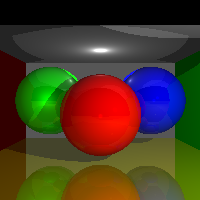
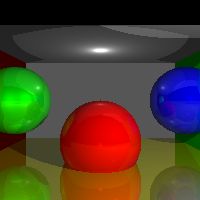
Simplification du gif

diff --git a/animation.py b/animation.py
@@ -1,4 +1,3 @@
-import math
 import os
 from Scene import Scene
 from Camera import Camera
@@ -6,7 +5,6 @@ from Canvas import Canvas
 from Viewport import Viewport
 from PIL import Image
 from fonctions_utils import load_scene_from_file, TraceRay, CanvasToViewport
-from Sphere import Sphere
 
 # Rend une frame et retourne l'image PIL
 def render_frame(scene, camera, viewport, Cw, Ch):
@@ -27,43 +25,40 @@ def render_frame(scene, camera, viewport, Cw, Ch):
     return img
 
 if __name__ == '__main__':
-    # Configuration
     viewport = Viewport(1, 1, 1)
     camera = Camera(0, 0.5, -2)
     Cw, Ch = 200, 200
-    num_frames = 36
+    num_frames = 20
     os.makedirs('frames', exist_ok=True)
-
-    # Paramètres d'animation
-    center_y_base, center_amplitude = -1, 1.5
-    left_x_base, right_x_base, side_amplitude = -3, 3, 2
 
     images = []
     print(f"Rendu de {num_frames} frames...")
 
-    # Génération des frames
+    # Animation simple : la sphère rouge monte, les sphères latérales se rapprochent
     for frame in range(num_frames):
         scene = Scene()
         load_scene_from_file(scene, 'scene.txt')
         scene.set_viewport(viewport)
         scene.set_camera(camera)
 
-        t = (frame / num_frames) * 2 * math.pi
+        # Sphère rouge (centre) → monte
+        sphere0 = scene.objets[0]
+        sphere0.center = (sphere0.center[0], sphere0.center[1] + frame * 0.1, sphere0.center[2])
 
-        for obj in scene.objets:
-            if isinstance(obj, Sphere) and obj.radius == 1:
-                if abs(obj.center[0]) < 0.1:
-                    obj.center = (obj.center[0], center_y_base + center_amplitude * math.sin(t), obj.center[2])
-                elif obj.center[0] < -2:
-                    obj.center = (left_x_base + side_amplitude * math.sin(t), obj.center[1], obj.center[2])
-                elif obj.center[0] > 2:
-                    obj.center = (right_x_base - side_amplitude * math.sin(t), obj.center[1], obj.center[2])
+        # Sphère gauche → se rapproche du centre
+        sphere1 = scene.objets[1]
+        sphere1.center = (sphere1.center[0] + frame * 0.1, sphere1.center[1], sphere1.center[2])
+
+        # Sphère droite → se rapproche du centre
+        sphere2 = scene.objets[2]
+        sphere2.center = (sphere2.center[0] - frame * 0.1, sphere2.center[1], sphere2.center[2])
 
         img = render_frame(scene, camera, viewport, Cw, Ch)
         images.append(img)
         img.save(f'frames/frame_{frame:03d}.png')
         print(f"Frame {frame + 1}/{num_frames}")
 
+    images = images + images[::-1] #pour les imags en arrière
     # Export GIF
     images[0].save('animation.gif', save_all=True, append_images=images[1:], duration=100, loop=0)
     print("Terminé ! → animation.gif")
